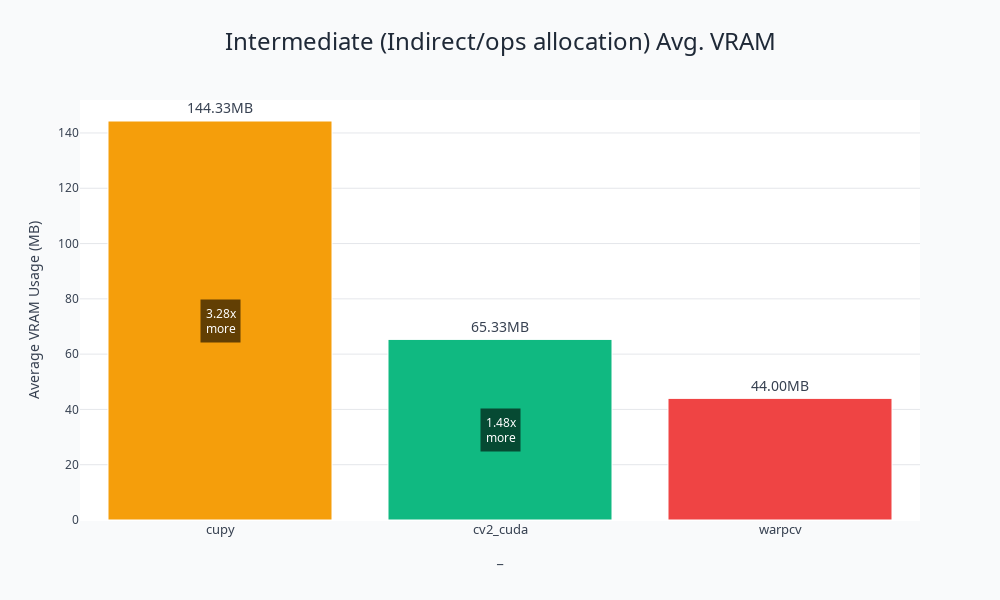
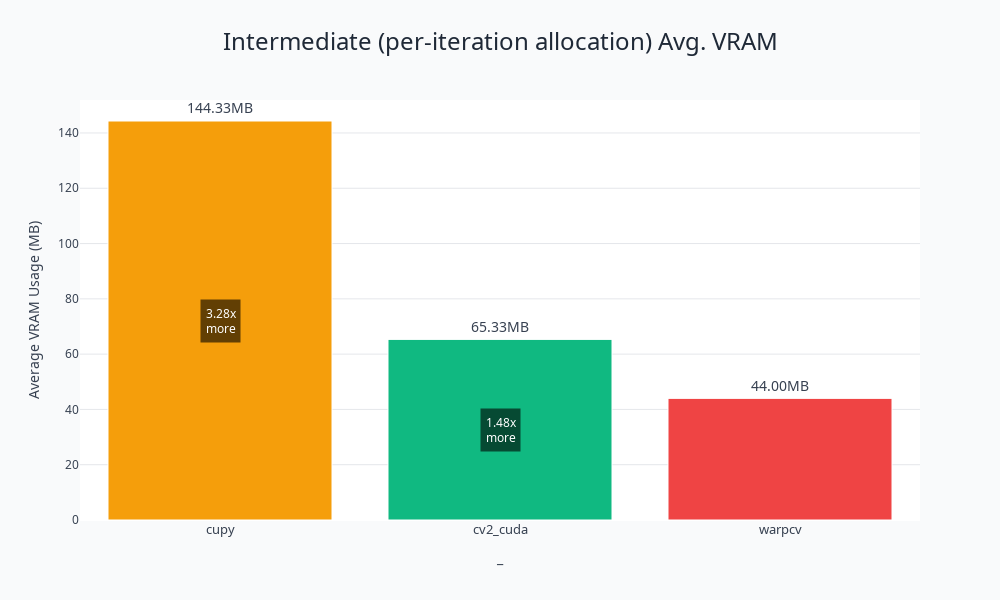
revise

Changed region(s): [[0.217, 0.06, 0.775, 0.09]]

diff --git a/bench/fused_b.py b/bench/fused_b.py
@@ -568,8 +568,8 @@ def main():
     plot_avg_latency_barplot(all_results_bgr2rgb, all_results_rnt, "Avg. Latency")
      
     if CUDA_AVAILABLE:
-        plot_vram_usage(all_vram_bgr2rgb, all_vram_rnt, "Intermediate (Indirect/ops allocation) VRAM Usage Over Resolutions")
-        plot_avg_vram_barplot(all_vram_bgr2rgb, all_vram_rnt, "Intermediate (Indirect/ops allocation) Avg. VRAM")
+        plot_vram_usage(all_vram_bgr2rgb, all_vram_rnt, "Intermediate (peak cumulative allocation) VRAM Usage Over Resolutions")
+        plot_avg_vram_barplot(all_vram_bgr2rgb, all_vram_rnt, "Intermediate (per-iteration allocation) Avg. VRAM")
 
 if __name__ == "__main__":
     main()
